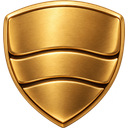
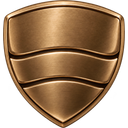
Match native Horizon Shield to Sunrise bronze

diff --git a/src/renderer/styles.css b/src/renderer/styles.css
@@ -1269,7 +1269,7 @@ body.mac .vertical-tabs-toolbar {
 #pillPrivateChip svg,
 #pillSourceChip svg { width: 8px; height: 8px; stroke-width: 2; }
 
-/* Horizon Shield: layered gold artwork in the existing 24px hover-circle.
+/* Horizon Shield: layered Sunrise bronze artwork in the existing 24px hover-circle.
    The count remains a separate badge on the shield's shoulder. */
 .shield {
   appearance: none;

diff --git a/docs/verification/2026-10-03-horizon-shield-bronze.md b/docs/verification/2026-10-03-horizon-shield-bronze.md
@@ -1,0 +1,72 @@
+# Horizon Shield — Sunrise bronze app revision
+
+On October 3, 2026, the owner requested a less golden, more copper/bronze
+Horizon Shield matching the Sunrise sun, everywhere in the app and website.
+The owner then explicitly requested separate PRs: this shared master and native
+icon ship in the next app release before the redesigned website deploys.
+
+## App scope
+
+- `assets/horizon-shield.png`: recolored 1254×1254 transparent master.
+- `src/renderer/shield-horizon.png`: alpha-trimmed 128×128 transparent PNG,
+  rendered at the existing 16px native size, retaining badge and off-state styles.
+- Brand and reserved-asset documentation follow the copper/bronze direction.
+
+No website code, website exports, dependency changes, blocking behavior or app
+version bump is part of this PR. Original Sunrise artwork and historical public
+captures remain unchanged. The earlier native interaction review is preserved
+in `2026-10-03-horizon-shield.md`, with the original artwork at `03621de6`.
+
+Reproduce the runtime PNG with the pinned Sharp version:
+
+```js
+await sharp('assets/horizon-shield.png')
+  .trim({ threshold: 8 })
+  .resize(128, 128, {
+    fit: 'contain',
+    background: { r: 0, g: 0, b: 0, alpha: 0 },
+  })
+  .png()
+  .toFile('src/renderer/shield-horizon.png');
+```
+
+SHA-256:
+
[2 lines of base64/hex data omitted]
+
+## Image edit provenance
+
+Tool: built-in `image_gen.imagegen`, edit mode, transparent background.
+Image 1 was the existing master at revision `2c950840`. Image 2 was the unchanged
+`site/public/sunrise-hero-mark.png` as a palette reference only. The palette
+reference is existing artwork; this PR does not change any website file.
+
+Exact prompt:
+
+> Use case: precise-object-edit. Edit target: image 1, the existing transparent layered Horizon Shield. Palette reference only: image 2, Blanc's original Sunrise mark. Recolor ONLY the shield's metal so it matches the sun's restrained antique copper/bronze: medium brown-bronze face, warm muted copper midtones, deep umber seams, soft pale champagne highlights. Remove the bright yellow-gold/orange-gold cast; avoid reddish rose-gold. The shield should feel the same material and tonal family as the Sunrise sun. Preserve the exact existing shield silhouette, broad rounded top, tapered tip, three curved horizontal plates, two dark seams, raised perimeter, front-facing camera, brushed grain, dimensions and framing. Do not redesign, move the seams, add a sun symbol, text, logo, scene, shadow or background. Preserve genuine alpha transparency. Single recolored shield only, high resolution, sharply defined edges. Retain the satin brushed finish with restrained shine.
+
+Generated output: `exec-6f5c31e0-1ae7-4861-b27f-9dd2cc52e6b8.png`, copied into
+the project master. Pixel-identical geometry to the earlier raster is not
+assumed; the three plates, two seams and raised outline remain visually intact.
+
+## Delivery order
+
+1. Merge this app-only PR into `main` through normal protected checks.
+2. Include the shared bronze master and native PNG in the next verified app release.
+3. Reconcile the website launch evidence against that immutable public release.
+4. Merge and deploy website PR #491 only after the app release is public.
+
+The website PR separately owns its WebP export, 3D rim/material, outline and
+website verification ledger. It depends on this app artwork; shipping the app
+must never depend on merging or deploying the website redesign.
+
+## Validation
+
+- All 23 native shield-model and chrome-resource tests pass on this isolated
+  app-only branch based on `358cc02d`.
+- The transparent 128×128 runtime PNG reproduces byte-for-byte from the shared
+  master using pinned Sharp. Both source and runtime artwork were inspected.
+- Lint and whitespace checks pass. No dependency or blocking behavior changes.
+- This color revision did not launch a native desktop instance or package a
+  release. Earlier native interaction checks remain historical evidence.

diff --git a/docs/brand-usage.md b/docs/brand-usage.md
@@ -185,13 +185,20 @@ Island and everything that opens from it, the strip, the vertical tabs rail,
 the Glance header and the window controls.
 
 **Horizon Shield, owner-approved October 3, 2026:** the Island's blocker button
-uses the layered gold Horizon Shield as a scoped exception to the neutral icon
+uses the layered copper/bronze Horizon Shield as a scoped exception to the neutral icon
 palette. Use `src/renderer/shield-horizon.png` at 16×16 CSS pixels within the
 existing 24px button; the Island's shared zoom still applies. Keep the count as
 a separate badge and desaturate the artwork when blocking is off. The source is
 `assets/horizon-shield.png`. This product mark does not replace Sunrise or warm
 the surrounding Island. It is approved for the next desktop release; public
 screenshots and marketing must continue to follow the release boundary.
+The owner's later October 3 correction matches the shield's metal to the
+original Sunrise sun: muted copper/bronze faces, deep brown seams and restrained
+champagne highlights, rather than bright yellow gold. The app PNG derives from
+this shared master. The later website revamp must derive its export and 3D
+materials from the same palette. Preserve the Sunrise artwork itself and
+historical public-release captures. Ship the app revision before deploying the
+website redesign (PR #491).
 
 Warm surfaces use the shared `--sunrise-*` tokens (`tokens/tokens.json`) by
 remapping the semantic tokens inside a scope class, never by hard-coding

diff --git a/docs/verification/2026-10-03-horizon-shield.md b/docs/verification/2026-10-03-horizon-shield.md
@@ -4,6 +4,11 @@ The owner selected Horizon Shield from three gold-shield concepts on October 3,
 2026, reviewed it in an isolated native Blanc dev instance, and approved the
 smaller 16px revision before requesting a squash merge for the next release.
 
+The later same-day copper/bronze color direction supersedes the gold palette
+below. See `2026-10-03-horizon-shield-bronze.md` for the revised shared master,
+native export, edit prompt and validation. This record preserves the
+original selection and native interaction review.
+
 ## Final presentation
 
 Three curved gold plates form a rounded shield with two dark bronze seams.

diff --git a/ASSET-LICENSE.md b/ASSET-LICENSE.md
@@ -29,7 +29,7 @@ Source mark:
 
 Product marks:
 
-- `assets/horizon-shield.png` — layered gold Horizon Shield source artwork
+- `assets/horizon-shield.png` — layered copper/bronze Horizon Shield source artwork
 - `src/renderer/shield-horizon.png` — transparent Island toolbar export
 
 App-icon colorways:
